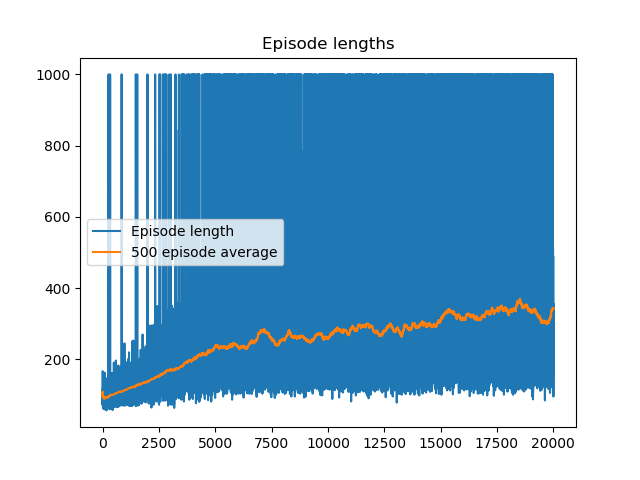
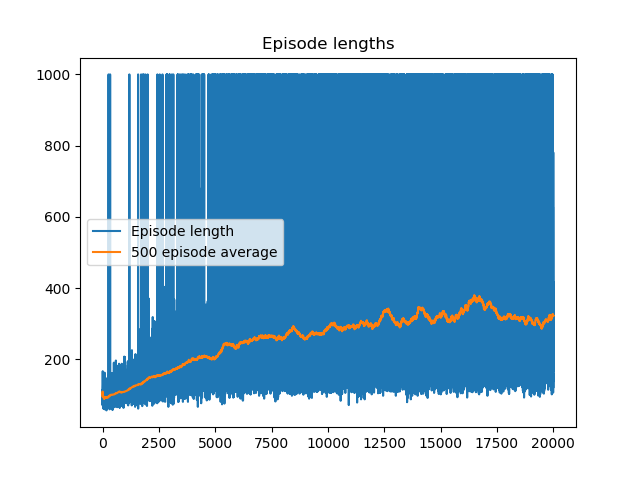
Lunar Recacalculate

diff --git a/Exercises/Ex3/qlearning_lunar.py b/Exercises/Ex3/qlearning_lunar.py
@@ -34,7 +34,7 @@ gamma = 0.98
 alpha = 0.1
 target_eps = 0.1
 a = int(20000/9)  # TODO: Set the correct value.
-initial_q = 200  # T3: Set to 50
+initial_q = 0  # T3: Set to 50
 
 # Create discretization grid
 x_grid = np.linspace(x_min, x_max, discr)
